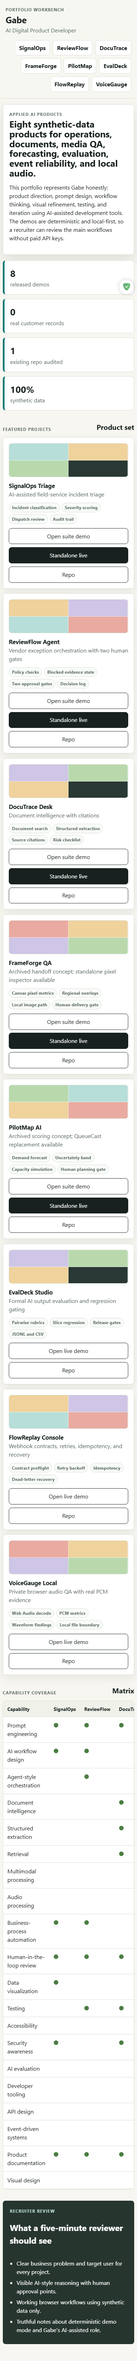
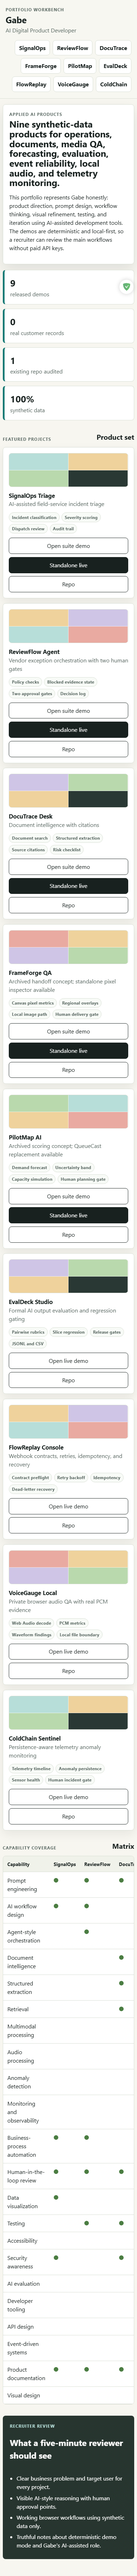
feat: integrate ColdChain into portfolio

diff --git a/index.html b/index.html
@@ -4,7 +4,7 @@
   <meta charset="utf-8">
   <meta name="viewport" content="width=device-width, initial-scale=1">
   <title>Gabe - AI Digital Product Developer</title>
-  <meta name="description" content="Eight truthful AI-assisted digital product demos spanning operations, documents, media, forecasting, evaluation, event reliability, and local audio QA.">
+  <meta name="description" content="Nine truthful AI-assisted digital product demos spanning operations, documents, media, forecasting, evaluation, event reliability, audio QA, and telemetry monitoring.">
   <link rel="stylesheet" href="assets/styles.css">
 </head>
 <body data-page="portfolio">
@@ -24,6 +24,7 @@
       <a href="https://jubjub-cpu.github.io/evaldeck-studio/">EvalDeck</a>
       <a href="https://jubjub-cpu.github.io/flowreplay-console/">FlowReplay</a>
       <a href="https://jubjub-cpu.github.io/voicegauge-local/">VoiceGauge</a>
+      <a href="https://jubjub-cpu.github.io/coldchain-sentinel/">ColdChain</a>
     </nav>
   </header>
 
@@ -31,14 +32,14 @@
     <section class="intro-grid" aria-labelledby="portfolio-title">
       <div class="intro-copy">
         <p class="eyebrow">Applied AI products</p>
-        <h2 id="portfolio-title">Eight synthetic-data products for operations, documents, media QA, forecasting, evaluation, event reliability, and local audio.</h2>
+        <h2 id="portfolio-title">Nine synthetic-data products for operations, documents, media QA, forecasting, evaluation, event reliability, local audio, and telemetry monitoring.</h2>
         <p>
           This portfolio represents Gabe honestly: product direction, prompt design, workflow thinking, visual refinement, testing, and iteration using AI-assisted development tools.
           The demos are deterministic and local-first, so a recruiter can review the main workflows without paid API keys.
         </p>
       </div>
       <div class="audit-strip" aria-label="Portfolio audit summary">
-        <div><strong>8</strong><span>released demos</span></div>
+        <div><strong>9</strong><span>released demos</span></div>
         <div><strong>0</strong><span>real customer records</span></div>
         <div><strong>1</strong><span>existing repo audited</span></div>
         <div><strong>100%</strong><span>synthetic data</span></div>

diff --git a/assets/portfolio.js b/assets/portfolio.js
@@ -10,6 +10,8 @@
     "Retrieval",
     "Multimodal processing",
     "Audio processing",
+    "Anomaly detection",
+    "Monitoring and observability",
     "Business-process automation",
     "Human-in-the-loop review",
     "Data visualization",
@@ -152,6 +154,22 @@
       oversight: "No transcription or identity inference runs; accepting audio with findings requires written human evidence.",
       features: ["Web Audio decode", "PCM metrics", "Waveform findings", "Local file boundary"],
       capabilities: ["Multimodal processing", "Audio processing", "Human-in-the-loop review", "Data visualization", "Testing", "Accessibility", "Security awareness", "Developer tooling", "Product documentation", "Visual design"]
+    },
+    coldchain: {
+      name: "ColdChain Sentinel",
+      shortName: "ColdChain",
+      subtitle: "Persistence-aware telemetry anomaly monitoring",
+      path: "https://jubjub-cpu.github.io/coldchain-sentinel/",
+      pathLabel: "Open live demo",
+      standaloneRepo: "https://github.com/jubjub-cpu/coldchain-sentinel",
+      standaloneRelease: "https://github.com/jubjub-cpu/coldchain-sentinel/releases/tag/v1.0.0",
+      accent: "teal",
+      problem: "Cold-chain operators need to distinguish persistent cargo-condition incidents from noisy spikes while seeing when sensor evidence itself is unhealthy.",
+      user: "Cold-chain operations leads, logistics coordinators, quality teams, and monitoring product teams",
+      ai: "Evaluates 188 deterministic multivariate readings with explicit persistence, clear hysteresis, spike suppression, cadence, battery, signal, and door-state rules.",
+      oversight: "No shipment is disposed automatically; a human operator must provide written evidence before acknowledgement or escalation.",
+      features: ["Telemetry timeline", "Anomaly persistence", "Sensor health", "Human incident gate"],
+      capabilities: ["AI workflow design", "Anomaly detection", "Monitoring and observability", "Human-in-the-loop review", "Data visualization", "Testing", "Accessibility", "Security awareness", "Developer tooling", "Product documentation", "Visual design"]
     }
   };
 

diff --git a/assets/styles.css b/assets/styles.css
@@ -219,7 +219,7 @@ textarea {
 
 .project-grid {
   display: grid;
-  grid-template-columns: repeat(4, minmax(0, 1fr));
+  grid-template-columns: repeat(3, minmax(0, 1fr));
   gap: 0.85rem;
 }
 

diff --git a/docs/FINAL_PORTFOLIO_REPORT.md b/docs/FINAL_PORTFOLIO_REPORT.md
@@ -2,7 +2,7 @@
 
 ## Executive Summary
 
-The five-project foundation is complete and the portfolio has expanded to eight released products with EvalDeck Studio, FlowReplay Console, and VoiceGauge Local, the first three Phase Two releases. The published work includes runnable synthetic-data demos, central documentation, a capability matrix, case studies, validation checks, screenshots, closed milestone issues, and versioned GitHub releases.
+The five-project foundation is complete and the portfolio has expanded to nine released products with EvalDeck Studio, FlowReplay Console, VoiceGauge Local, and ColdChain Sentinel, the first four Phase Two releases. The published work includes runnable synthetic-data demos, central documentation, a capability matrix, case studies, validation checks, screenshots, closed milestone issues, and versioned GitHub releases.
 
 ## Gabe's Portfolio Positioning
 
@@ -20,6 +20,7 @@ Gabe is positioned as an AI Digital Product Developer who uses AI-assisted devel
 | EvalDeck Studio | [Standalone demo](https://jubjub-cpu.github.io/evaldeck-studio/) | AI product changes need repeatable quality and safety evidence before release. | AI product engineers and QA leads | Pairwise rubric scoring, slice regressions, reference disagreement, configurable gates, reasoned overrides, portable artifacts. | Static HTML/CSS/JS and Canvas | Logic, import/export, repository, local browser, and deployed browser checks passed | Standalone v1.0.0 published |
 | FlowReplay Console | [Standalone demo](https://jubjub-cpu.github.io/flowreplay-console/) | Webhook failures need visible contract, retry, duplicate, and recovery evidence. | API product engineers and integration developers | Versioned contract preflight, retry/backoff, failure injection, idempotent no-ops, dead-letter recovery, human replay approval. | Static HTML/CSS/JS and Canvas | Engine, import/export, repository, local browser, and deployed browser checks passed | Standalone v1.0.0 published |
 | VoiceGauge Local | [Standalone demo](https://jubjub-cpu.github.io/voicegauge-local/) | Audio teams need a private first pass for clipping, silence, level, and background signal. | Content QA leads, producers, and creators | Real Web Audio decoding, PCM metrics, waveform findings, threshold policy, baseline comparison, local import, human handoff decision. | Static HTML/CSS/JS, Web Audio, and Canvas | Engine, generated fixtures, import/export, repository, local browser, and deployed browser checks passed | Standalone v1.0.0 published |
+| ColdChain Sentinel | [Standalone demo](https://jubjub-cpu.github.io/coldchain-sentinel/) | Cold-chain teams need to separate persistent excursions from spikes and unhealthy sensor evidence. | Logistics operations and quality leads | Multivariate telemetry, persistence, clear hysteresis, spike suppression, cadence, battery, signal, door evidence, and human disposition. | Static HTML/CSS/JS and Canvas | Engine, 188 readings, export, repository, local browser, and deployed browser checks passed | Standalone v1.0.0 published |
 
 ## Capability Matrix
 
@@ -38,15 +39,15 @@ The profile README links to the live portfolio and truthfully describes Gabe's A
 1. `gabe-ai-product-portfolio`
 2. `evaldeck-studio`
 3. `flowreplay-console`
-4. `voicegauge-local`
-5. `doctrace-desk`
-6. `frameforge-inspect`
+4. `coldchain-sentinel`
+5. `voicegauge-local`
+6. `doctrace-desk`
 
 ## Testing Summary
 
 - `PORTFOLIO VALIDATION PASSED`
 - Browser render checks passed.
-- Interaction checks passed for all five suite workflows plus EvalDeck's regression, FlowReplay's event-recovery, and VoiceGauge's local audio workflows.
+- Interaction checks passed for all five suite workflows plus EvalDeck's regression, FlowReplay's event-recovery, VoiceGauge's local audio, and ColdChain's telemetry incident workflows.
 - Mobile central portfolio check passed at 390 px.
 - No browser console errors observed.
 
@@ -108,6 +109,10 @@ Standalone VoiceGauge Local deployment: https://jubjub-cpu.github.io/voicegauge-
 
 Standalone VoiceGauge Local release: https://github.com/jubjub-cpu/voicegauge-local/releases/tag/v1.0.0
 
+Standalone ColdChain Sentinel deployment: https://jubjub-cpu.github.io/coldchain-sentinel/
+
+Standalone ColdChain Sentinel release: https://github.com/jubjub-cpu/coldchain-sentinel/releases/tag/v1.0.0
+
 ## Privacy and Security Summary
 
 All product data is fictional or synthetic. No real customer records, payment-card records, credentials, private communications, employee data, or production logs are included. The validation script scans for common secret patterns.
@@ -116,7 +121,7 @@ All product data is fictional or synthetic. No real customer records, payment-ca
 
 - Pin `gabe-ai-product-portfolio` on the GitHub profile manually. The available GitHub GraphQL schema did not expose a repository-pinning mutation in this environment.
 - Apply the six-repository recommendation in `docs/PORTFOLIO_STRATEGY.md` manually; repository pinning is not exposed by the available API.
-- Build the remaining two selected Phase Two products in `PHASE_TWO_CANDIDATES.md`.
+- Build the final selected Phase Two product in `PHASE_TWO_CANDIDATES.md`.
 
 ## Next Projects
 
@@ -124,4 +129,4 @@ See `NEXT_5_PROJECTS.md`.
 
 ## Suggested Next Career Step
 
-Use the central portfolio plus EvalDeck, FlowReplay, VoiceGauge, and DocuTrace to apply for AI product, evaluation, developer tooling, media intelligence, workflow automation, and document intelligence roles while continuing Phase Two.
+Use the central portfolio plus EvalDeck, FlowReplay, ColdChain, VoiceGauge, and DocuTrace to apply for AI product, evaluation, developer tooling, monitoring, media intelligence, workflow automation, and document intelligence roles while completing Phase Two.

diff --git a/README.md b/README.md
@@ -1,6 +1,6 @@
 # Gabe - AI Digital Product Developer Portfolio
 
-This portfolio features eight complete, local-first AI digital products that show practical workflow design, prompt-shaped reasoning, formal evaluation, event reliability, real browser media processing, human review, synthetic data, and recruiter-friendly product documentation.
+This portfolio features nine complete, local-first AI digital products that show practical workflow design, prompt-shaped reasoning, formal evaluation, event reliability, real browser media processing, telemetry monitoring, human review, synthetic data, and recruiter-friendly product documentation.
 
 ## Overview
 
@@ -20,6 +20,7 @@ The portfolio does not claim traditional software engineering employment, produc
 | EvalDeck Studio | AI product teams need repeatable evidence before prompt or model changes ship. | Four pairwise rubrics, slice regressions, reference disagreement, configurable gates, reasoned overrides, JSONL/JSON/CSV artifacts. | [Standalone](https://jubjub-cpu.github.io/evaldeck-studio/) |
 | FlowReplay Console | Integration teams need to distinguish contract drift, transient failures, duplicates, and dead-letter recovery before replaying webhooks. | Versioned contracts, response classification, retry backoff, failure injection, idempotent no-ops, reasoned replay approval, JSON evidence. | [Standalone](https://jubjub-cpu.github.io/flowreplay-console/) |
 | VoiceGauge Local | Audio teams need a private first pass for clipping, level, silence, and background signal. | Real Web Audio decoding, six PCM metrics, timed Canvas findings, baseline comparison, local upload, threshold policy, human handoff gate. | [Standalone](https://jubjub-cpu.github.io/voicegauge-local/) |
+| ColdChain Sentinel | Cold-chain operators need to distinguish persistent excursions from noisy spikes and unhealthy sensor evidence. | Multivariate telemetry, persistence, clear hysteresis, spike suppression, sensor-gap detection, policy tuning, and a human incident gate. | [Standalone](https://jubjub-cpu.github.io/coldchain-sentinel/) |
 
 ## Business Problem
 
@@ -35,7 +36,7 @@ Each demo uses deterministic browser logic to simulate AI-style workflow support
 
 ## Main Features
 
-- Eight released product demos with synthetic data.
+- Nine released product demos with synthetic data.
 - Central portfolio page with project cards and capability matrix.
 - Human-in-the-loop review points in every product.
 - Recruiter-facing documentation, roadmap, scorecard, state tracking, blocker tracking, and case studies.
@@ -87,6 +88,10 @@ Current screenshots captured from the implemented local app:
 ![Standalone VoiceGauge desktop](docs/screenshots/voicegauge-standalone-desktop.png)
 
 ![Standalone VoiceGauge mobile](docs/screenshots/voicegauge-standalone-mobile.png)
+
+![Standalone ColdChain desktop](docs/screenshots/coldchain-standalone-desktop.png)
+
+![Standalone ColdChain mobile](docs/screenshots/coldchain-standalone-mobile.png)
 
 ![Mobile portfolio](docs/screenshots/portfolio-mobile.png)
 
@@ -156,6 +161,12 @@ Standalone VoiceGauge Local:
 - [Repository](https://github.com/jubjub-cpu/voicegauge-local)
 - [v1.0.0 release](https://github.com/jubjub-cpu/voicegauge-local/releases/tag/v1.0.0)
 
+Standalone ColdChain Sentinel:
+
+- [Live demo](https://jubjub-cpu.github.io/coldchain-sentinel/)
+- [Repository](https://github.com/jubjub-cpu/coldchain-sentinel)
+- [v1.0.0 release](https://github.com/jubjub-cpu/coldchain-sentinel/releases/tag/v1.0.0)
+
 Local fallback:
 
 ```text
@@ -174,6 +185,7 @@ The demos show AI product patterns without pretending a paid model is running:
 - Formal AI-output evaluation, regression analysis, and release gating.
 - API contracts, event retries, idempotency, failure injection, and dead-letter recovery.
 - Web Audio decoding, PCM signal analysis, waveform overlays, and local audio privacy.
+- Multivariate telemetry monitoring, persistence-aware anomaly detection, clear hysteresis, and sensor-health evidence.
 
 ## Human Oversight
 
@@ -254,12 +266,12 @@ powershell -ExecutionPolicy Bypass -File .\tests\portfolio-validation.ps1
 Latest local validation:
 
 - `PORTFOLIO VALIDATION PASSED`
-- Browser smoke test: all five suite workflows plus the EvalDeck, FlowReplay, and VoiceGauge integrations rendered.
+- Browser smoke test: all five suite workflows plus the EvalDeck, FlowReplay, VoiceGauge, and ColdChain integrations rendered.
 - Interaction test: SignalOps approval, ReviewFlow approval, DocuTrace citations, FrameForge revision review, and PilotMap scoring all responded.
-- Mobile check: central portfolio rendered with eight project cards at 390 px width.
+- Mobile check: central portfolio rendered with nine project cards at 390 px width.
 - Browser console errors: none observed.
 
-The repeatable browser integration check verifies the eight-card desktop and mobile layouts plus the standalone foundation, EvalDeck, FlowReplay, and VoiceGauge public links.
+The repeatable browser integration check verifies the nine-card desktop and mobile layouts plus the standalone foundation, EvalDeck, FlowReplay, VoiceGauge, and ColdChain public links.
 
 ## Deployment
 
@@ -284,7 +296,7 @@ The recruiter-review path does not require a backend or paid API.
 ## Future Improvements
 
 - Add optional bring-your-own-key AI integrations.
-- Build the remaining two selected Phase Two products in `PHASE_TWO_CANDIDATES.md`.
+- Build the final selected Phase Two product in `PHASE_TWO_CANDIDATES.md`.
 - Add live API-backed variants only when privacy, cost, and security boundaries are clear.
 
 ## AI-Assisted Development

diff --git a/PROJECT_NOVELTY_MATRIX.md b/PROJECT_NOVELTY_MATRIX.md
@@ -16,6 +16,7 @@ This matrix compares the completed foundation, released Phase Two products, and 
 | EvalDeck Studio, standalone | Prompt or model changes can hide regressions | AI quality engineering | AI product engineer and QA lead | Load suite, compare outputs, inspect rubrics and slices, resolve disagreement, apply gate, decide release | JSONL prompts, outputs, rules, and reference scores | Deterministic pairwise evaluation and regression analysis | Rubric evidence, slice metrics, gate decision, JSON and CSV reports | Evaluation table, diff workbench, and aggregate chart | Modular local-first static app | GitHub Pages | Reasoned override and final release approval | Logic, import/export, local and deployed browser checks | Formal evaluation and developer tooling |
 | FlowReplay Console, standalone | Webhook failures hide contract, retry, and duplicate-side-effect risk | Developer infrastructure | API product engineer and integration developer | Inspect event, validate contract, inject failure, model retries, approve replay, review audit | Synthetic event JSON, versioned contracts, endpoints, attempts, and idempotency keys | Contract preflight, response classification, retry/backoff simulation, idempotency, replay planning | Attempt evidence, terminal outcome, HTTP preview, replay event, JSON report | Event rail, Canvas timeline, evidence tabs, replay builder, contract registry | Modular local-first static app | GitHub Pages | Recovery reason and explicit replay approval | Engine, import/export, Canvas, local and deployed browser checks | API design and event-driven developer tooling |
 | VoiceGauge Local, standalone | Audio defects need a private first pass before handoff | Media operations | Content QA lead, producer, and creator | Decode source, inspect metrics and waveform, compare baseline, tune policy, decide handoff | Generated WAV fixtures or local browser-supported audio | Real local PCM analysis with deterministic quality findings | Six metrics, timed overlays, baseline deltas, human decision, JSON report | Audio library, native player, Canvas waveform, policy controls, comparison table | Modular local-first static app with Web Audio | GitHub Pages | Written evidence for accepted findings and explicit re-record action | Engine, fixture, Web Audio, import/export, Canvas, local and deployed browser checks | Audio processing and privacy-first multimodal work |
+| ColdChain Sentinel, standalone | Noisy telemetry can create false alarms while unhealthy sensors weaken incident evidence | Cold-chain logistics | Operations lead, logistics coordinator, and quality reviewer | Select synthetic load, inspect multivariate timeline, tune rule contract, review raw ledger, decide disposition | Deterministic temperature, humidity, battery, signal, door, cadence, and route-stage telemetry | Persistence-aware anomaly detection, clear hysteresis, spike suppression, and sensor-health checks | Correlated alerts, visible suppressions, policy evidence, human disposition, JSON incident | Fleet rail, Canvas timeline, metric strip, rule controls, reading ledger, incident gate | Modular local-first static app with deterministic time-series generation | GitHub Pages | Written evidence required for acknowledgement or escalation | Engine, scenario, Canvas, export, privacy, local and deployed browser checks | Monitoring, anomaly logic, data quality, and operational incident design |
 
 ## Closest-Project Checks
 

diff --git a/PORTFOLIO_CAPABILITY_LEDGER.md b/PORTFOLIO_CAPABILITY_LEDGER.md
@@ -16,7 +16,8 @@ Status key: **Strong** = implemented and directly testable; **Partial** = visibl
 | Audio processing | Missing | Missing | Missing | Missing | Missing | Strong via VoiceGauge |
 | Semantic search | Missing | Mentioned | Missing | Missing | Missing | Mentioned |
 | Forecasting | Missing | Missing | Missing | Missing | Strong | Strong |
-| Anomaly detection | Partial | Missing | Missing | Missing | Missing | Partial |
+| Anomaly detection | Partial | Missing | Missing | Missing | Missing | Strong via ColdChain |
+| Monitoring and observability | Partial | Missing | Partial | Missing | Partial | Strong via ColdChain |
 | Data visualization | Strong | Partial | Partial | Partial | Strong | Strong |
 | Local-first processing | Strong | Strong | Strong | Strong | Strong | Strong |
 | Browser-based processing | Strong | Strong | Strong | Strong | Strong | Strong |
@@ -39,7 +40,7 @@ Status key: **Strong** = implemented and directly testable; **Partial** = visibl
 | FrameForge Inspect | Rebuilt substantially | Standalone v1.0.0 with actual Canvas pixel metrics, generated PNG fixtures, regional overlays, local file processing, comparison, human decision, export, and deployed tests |
 | QueueCast Planner | Replaced PilotMap | Standalone v1.0.0 with trend forecasting, residual uncertainty, five scenario assumptions, weekly capacity risk, Canvas visualization, human adoption, export, and deployed tests |
 
-The remaining Phase Two wave must add anomaly detection, background monitoring, and privacy-preserving text processing; evaluation, developer tooling, API/event systems, and audio gaps are now covered.
+The remaining Phase Two release must add privacy-preserving text processing and reversible redaction review; evaluation, developer tooling, API/event systems, audio, anomaly detection, and monitoring gaps are now covered.
 
 ## Phase Two Evidence
 
@@ -48,3 +49,4 @@ The remaining Phase Two wave must add anomaly detection, background monitoring, 
 | EvalDeck Studio | Formal AI-output evaluation, developer tooling, pairwise regression, slice metrics, disagreement review, release gates, JSONL import, JSON/CSV artifacts | Standalone v1.0.0 with logic, repository, local browser, deployed browser, privacy, accessibility, screenshot, issue, and release evidence |
 | FlowReplay Console | Versioned webhook contracts, response classification, retries and backoff, deterministic failure injection, idempotency, dead-letter recovery, replay audit, local JSON artifacts | Standalone v1.0.0 with engine, repository, local browser, deployed browser, Canvas, privacy, accessibility, screenshot, issue, and release evidence |
 | VoiceGauge Local | Real Web Audio decoding, generated WAV fixtures, PCM peak/RMS/clipping/silence/quiet-floor/pause metrics, Canvas overlays, baseline comparison, local import, human delivery gate | Standalone v1.0.0 with audio engine, fixture generation, repository, local browser, deployed browser, content-type, privacy, accessibility, screenshot, issue, and release evidence |
+| ColdChain Sentinel | Deterministic multivariate telemetry, persistence-aware excursions, clear hysteresis, visible spike suppression, cadence gaps, battery/signal/door evidence, Canvas timeline, policy tuning, human incident gate | Standalone v1.0.0 with engine, 188 readings, repository, local browser, deployed browser, export, privacy, accessibility, screenshot, issue, and release evidence |

diff --git a/PHASE_TWO_CANDIDATES.md b/PHASE_TWO_CANDIDATES.md
@@ -7,7 +7,7 @@ Scoring dimensions are business clarity, novelty versus the foundation, missing-
 | EvalDeck Studio | AI quality engineering | JSONL prompts and outputs | Evaluation table and diff | Rubrics, pairwise evaluation, regression suites | 5 | 5 | 5 | 5 | 5 | 5 | 30 | Complete: v1.0.0 |
 | FlowReplay Console | Developer infrastructure | Webhook events and API schemas | Event timeline and contract console | API design, replay, idempotency, failure injection | 5 | 5 | 5 | 4 | 5 | 5 | 29 | Complete: v1.0.0 |
 | VoiceGauge Local | Customer-support QA | Local audio waveform | Waveform timeline | Audio processing, privacy, silence and clipping analysis | 5 | 5 | 5 | 4 | 5 | 5 | 29 | Complete: v1.0.0 |
-| ColdChain Sentinel | Logistics | Sensor telemetry | Monitoring board and route view | Multivariate anomaly detection and incident evidence | 5 | 5 | 4 | 5 | 5 | 5 | 29 | Select 4 |
+| ColdChain Sentinel | Logistics | Sensor telemetry | Monitoring board and route view | Multivariate anomaly detection and incident evidence | 5 | 5 | 4 | 5 | 5 | 5 | 29 | Complete: v1.0.0 |
 | CivicCase Redact | Public services | Case-note text spans | Split editor and review queue | Local-first privacy, PII rules, reversible review | 5 | 4 | 5 | 5 | 5 | 5 | 29 | Select 5 |
 | GrantGuard Evidence | Nonprofit compliance | Grant documents | Evidence checklist | Compliance extraction and citations | 4 | 2 | 2 | 5 | 4 | 5 | 22 | Reject: close to DocuTrace |
 | ShiftPilot Forecast | Retail staffing | Sales time series | Scenario planner | Forecasting and staffing | 5 | 1 | 1 | 5 | 4 | 4 | 20 | Reject: duplicates QueueCast |
@@ -30,5 +30,5 @@ Scoring dimensions are business clarity, novelty versus the foundation, missing-
 - Industries: AI quality engineering, developer infrastructure, customer support, logistics, and public services.
 - Interfaces: evaluation table/diff, event console, waveform timeline, monitoring board/route view, and split redaction editor.
 - Data: JSONL text pairs, event JSON, audio samples, multivariate telemetry, and case-note spans.
-- Gaps: developer tooling, API design, event automation, formal evaluation, audio, anomaly detection, and local-first privacy.
+- Remaining selected gap: local-first privacy-preserving text processing and reversible redaction review.
 - Closest-project rule: every selected product owns a different user, workflow, data type, interface, and primary technical claim.

diff --git a/PORTFOLIO_STATE.md b/PORTFOLIO_STATE.md
@@ -4,13 +4,13 @@
 | --- | --- |
 | Current phase | Phase Two: net-new expansion wave |
 | Current expansion wave | Five selected products after twelve-candidate scoring |
-| Current project | ColdChain Sentinel |
-| Current repository | Central: `jubjub-cpu/gabe-ai-product-portfolio`; next planned: `jubjub-cpu/coldchain-sentinel` |
+| Current project | CivicCase Redact |
+| Current repository | Central: `jubjub-cpu/gabe-ai-product-portfolio`; next planned: `jubjub-cpu/civiccase-redact` |
 | Current branch | `main` |
-| Current issue | ColdChain kickoff issue is the next GitHub milestone |
-| Last completed action | Released VoiceGauge Local with generated WAVs, real Web Audio decoding, PCM metrics, waveform findings, local import, human gate, deployed tests, and issues 1-3 closed |
-| Tests last run | VoiceGauge standalone checks passed; central eight-card validation, desktop/mobile browser, overflow, console, request, screenshot, and privacy checks passed locally |
+| Current issue | CivicCase kickoff issue is the next GitHub milestone |
+| Last completed action | Released ColdChain Sentinel with 188 synthetic telemetry readings, persistence and hysteresis, spike suppression, sensor-health alerts, a human gate, deployed tests, and issues 1-3 closed |
+| Tests last run | ColdChain standalone local and deployed checks passed; central nine-card validation, desktop/mobile browser, overflow, console, request, screenshot, and privacy checks passed locally |
 | Active failures | None |
 | Active blocker | Optional GitHub Actions workflow cannot be added with the current token because it lacks workflow scope; checked-in local and deployed validation remains available |
-| Uncommitted changes | None after the VoiceGauge integration checkpoint is committed |
-| Exact next action | Publish and verify the VoiceGauge integration, then create `jubjub-cpu/coldchain-sentinel` and its kickoff issue |
+| Uncommitted changes | None after the ColdChain integration checkpoint is committed |
+| Exact next action | Publish and verify the ColdChain integration, then create `jubjub-cpu/civiccase-redact` and its kickoff issue |

diff --git a/docs/GITHUB_PROFILE_README.md b/docs/GITHUB_PROFILE_README.md
@@ -24,6 +24,8 @@ My current focus is AI-assisted development, prompt engineering, workflow design
 - **FlowReplay Repository:** https://github.com/jubjub-cpu/flowreplay-console
 - **Standalone VoiceGauge:** https://jubjub-cpu.github.io/voicegauge-local/
 - **VoiceGauge Repository:** https://github.com/jubjub-cpu/voicegauge-local
+- **Standalone ColdChain:** https://jubjub-cpu.github.io/coldchain-sentinel/
+- **ColdChain Repository:** https://github.com/jubjub-cpu/coldchain-sentinel
 
 | Project | What It Demonstrates |
 | --- | --- |
@@ -35,6 +37,7 @@ My current focus is AI-assisted development, prompt engineering, workflow design
 | EvalDeck Studio | Formal AI-output evaluation with pairwise rubrics, slice regressions, reference disagreement, configurable release gates, and reasoned human overrides. |
 | FlowReplay Console | Webhook reliability tooling with versioned contracts, retry/backoff simulation, failure injection, idempotent no-ops, dead-letter recovery, and a human replay gate. |
 | VoiceGauge Local | Privacy-first Web Audio QA with generated WAV fixtures, six real PCM metrics, waveform findings, baseline comparison, local import, and a human handoff gate. |
+| ColdChain Sentinel | Synthetic multivariate telemetry monitoring with persistence, clear hysteresis, spike suppression, sensor-health findings, a Canvas timeline, and a human incident gate. |
 
 ## AI Patterns
 
@@ -52,6 +55,7 @@ My current focus is AI-assisted development, prompt engineering, workflow design
 - Local-first developer tooling and portable evaluation artifacts
 - API contracts, event-driven retries, idempotency, and dead-letter recovery
 - Web Audio, local PCM analysis, waveform visualization, and privacy-first media processing
+- Multivariate telemetry, persistence-aware anomaly detection, clear hysteresis, and sensor-health monitoring
 
 ## Current Learning Focus
 

diff --git a/DECISIONS.md b/DECISIONS.md
@@ -18,3 +18,4 @@
 | 2026-07-18 | EvalDeck | Release EvalDeck Studio as the first Phase Two product. | Start with event tooling; use a hosted judge model. | A deterministic evaluator makes formal rubrics, regressions, slice failures, disagreement, overrides, and release policy observable without API cost or customer outputs. | Phase Two is 1 of 5 complete; FlowReplay Console becomes next. |
 | 2026-07-17 | FlowReplay | Release FlowReplay Console as the second Phase Two product. | Build a generic API request tester; connect to live endpoints. | Versioned contracts, retry classes, backoff, failure injection, idempotent no-ops, and reasoned dead-letter recovery show event-system judgment without credentials or production traffic. | Phase Two is 2 of 5 complete; VoiceGauge Local becomes next. |
 | 2026-07-17 | VoiceGauge | Release VoiceGauge Local as the third Phase Two product without transcription. | Use stock voice clips; call a hosted speech API. | Generated WAVs plus real browser decoding make audio processing testable while avoiding voice privacy, biometric, and model-cost claims. | Phase Two is 3 of 5 complete; ColdChain Sentinel becomes next. |
+| 2026-07-17 | ColdChain | Release ColdChain Sentinel as the fourth Phase Two product with deterministic multivariate telemetry. | Connect a live sensor feed; build a generic metrics dashboard. | Persistence, clear hysteresis, visible suppression, cadence gaps, and sensor-health evidence demonstrate monitoring judgment without real logistics or location data. | Phase Two is 4 of 5 complete; CivicCase Redact becomes next. |

diff --git a/PORTFOLIO_ROADMAP.md b/PORTFOLIO_ROADMAP.md
@@ -10,6 +10,7 @@
 | 6 | EvalDeck Studio | AI quality engineering | Prompt and model changes need repeatable regression evidence. | AI product engineers and QA leads | Standalone complete | [Standalone repository](https://github.com/jubjub-cpu/evaldeck-studio) | [Standalone demo](https://jubjub-cpu.github.io/evaldeck-studio/) | v1.0.0 | None | Feature and maintain |
 | 7 | FlowReplay Console | Developer infrastructure | Webhook failures need contract, retry, idempotency, and replay evidence. | API product engineers and integration developers | Standalone complete | [Standalone repository](https://github.com/jubjub-cpu/flowreplay-console) | [Standalone demo](https://jubjub-cpu.github.io/flowreplay-console/) | v1.0.0 | None | Feature and maintain |
 | 8 | VoiceGauge Local | Audio intelligence | Audio teams need local signal evidence before handoff. | Content QA leads, producers, and creators | Standalone complete | [Standalone repository](https://github.com/jubjub-cpu/voicegauge-local) | [Standalone demo](https://jubjub-cpu.github.io/voicegauge-local/) | v1.0.0 | None | Feature and maintain |
+| 9 | ColdChain Sentinel | Telemetry monitoring | Cold-chain teams need persistent anomaly and sensor-health evidence before incident disposition. | Logistics operations and quality leads | Standalone complete | [Standalone repository](https://github.com/jubjub-cpu/coldchain-sentinel) | [Standalone demo](https://jubjub-cpu.github.io/coldchain-sentinel/) | v1.0.0 | None | Feature and maintain |
 
 ## Inventory Classification
 
